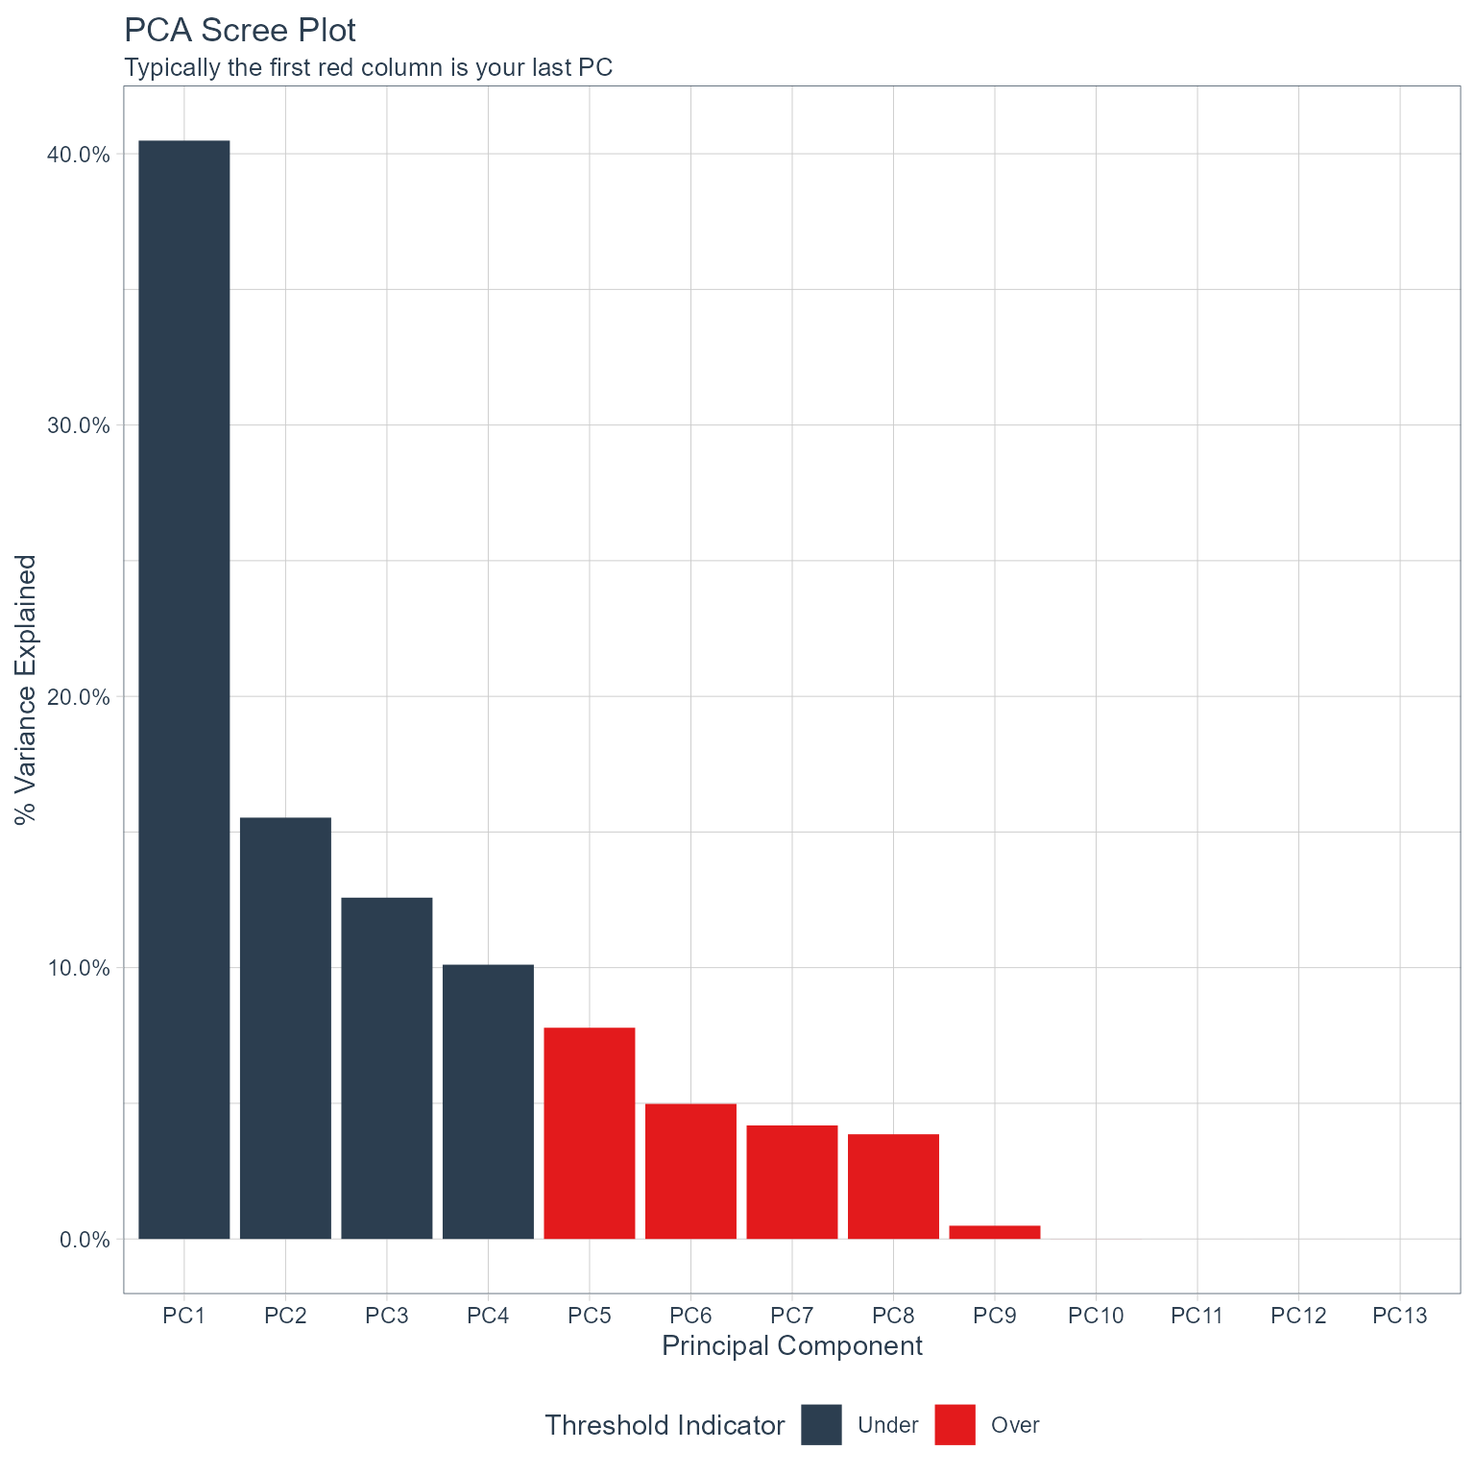
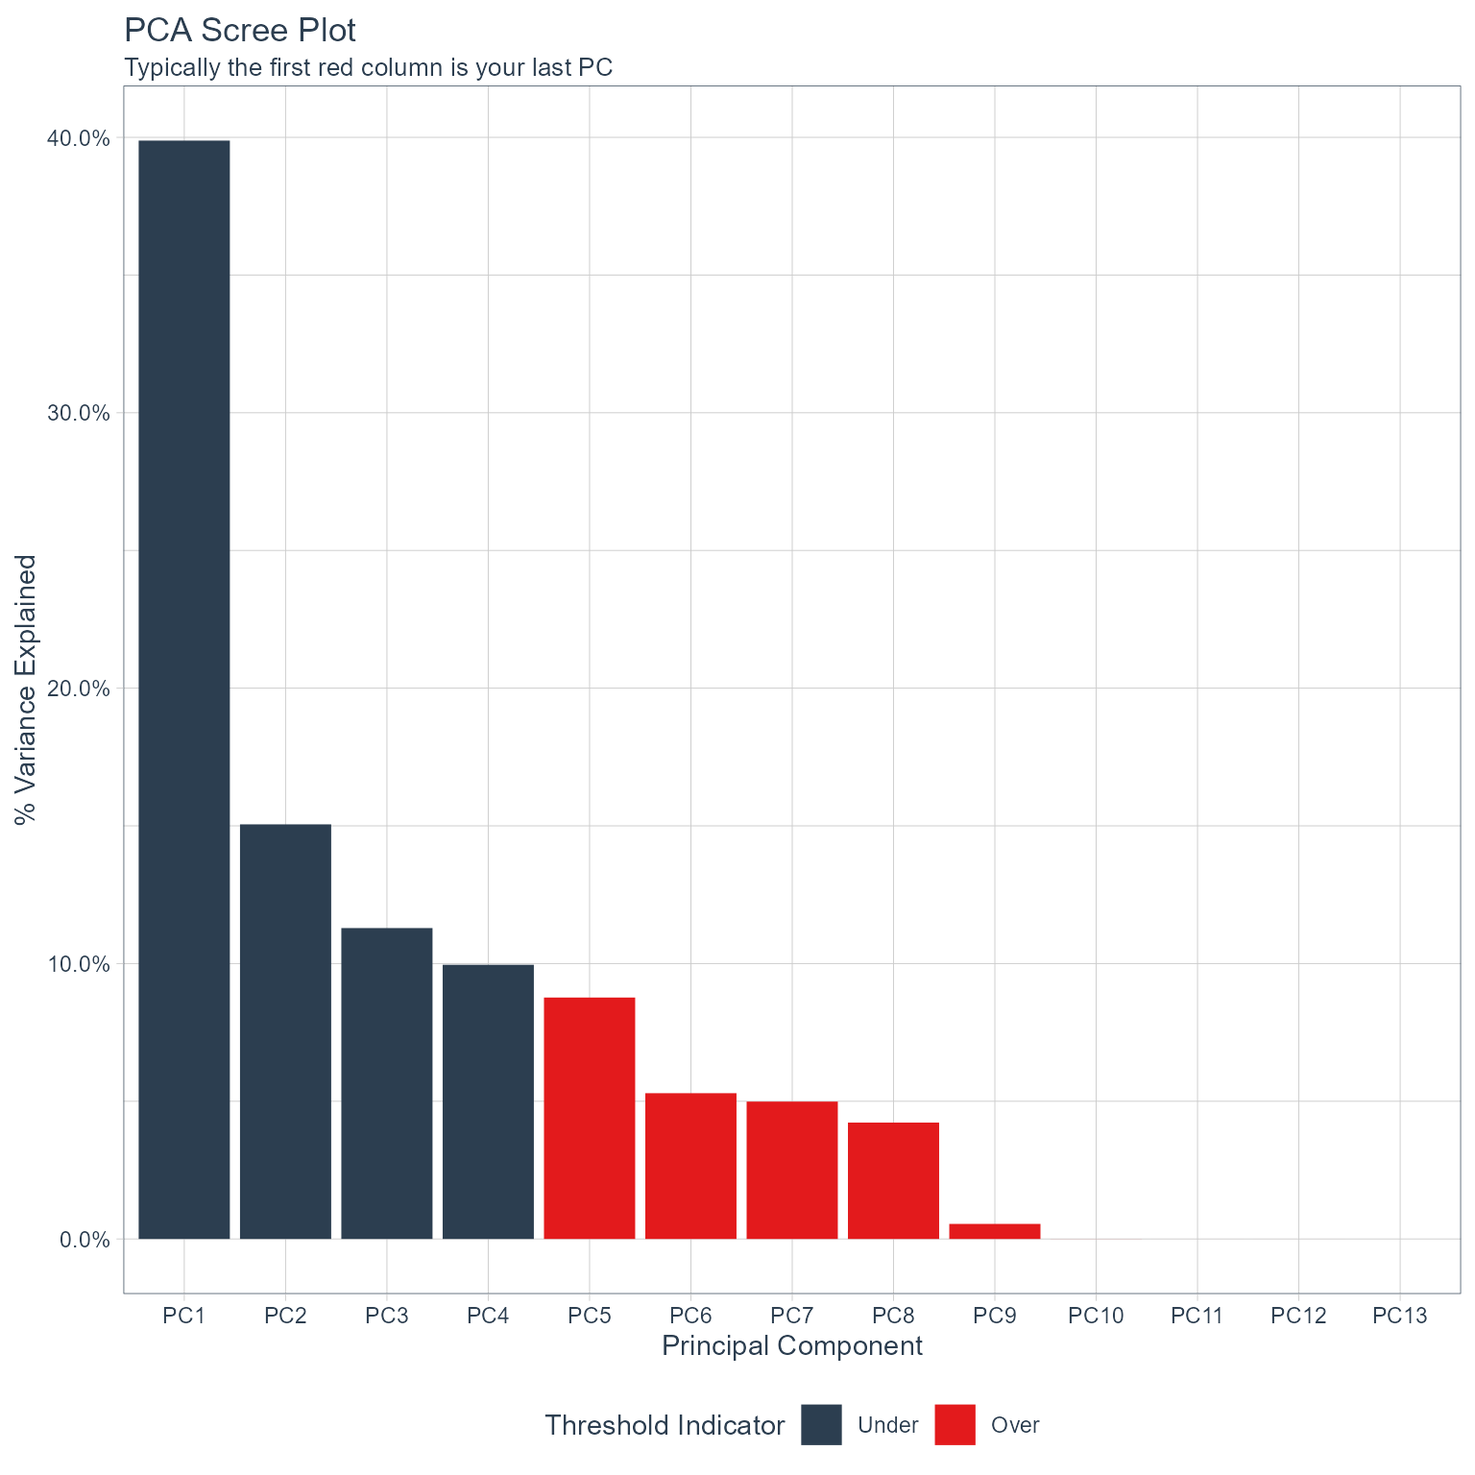
update NEWS and rebuild site

diff --git a/docs/articles/getting-started.html b/docs/articles/getting-started.html
@@ -175,12 +175,12 @@
 <span class="co">#&gt; # A tibble: 6 x 2</span>
 <span class="co">#&gt;   date_col            value</span>
 <span class="co">#&gt;   &lt;dttm&gt;              &lt;int&gt;</span>
-<span class="co">#&gt; 1 2020-05-01 00:00:00   716</span>
-<span class="co">#&gt; 2 2016-09-01 00:00:00  1511</span>
-<span class="co">#&gt; 3 2014-05-01 00:00:00  1835</span>
-<span class="co">#&gt; 4 2019-12-01 00:00:00  1381</span>
-<span class="co">#&gt; 5 2013-08-01 00:00:00  1887</span>
-<span class="co">#&gt; 6 2013-03-01 00:00:00  1796</span></code></pre></div>
+<span class="co">#&gt; 1 2020-10-01 00:00:00  1164</span>
+<span class="co">#&gt; 2 2014-06-01 00:00:00  1753</span>
+<span class="co">#&gt; 3 2018-07-01 00:00:00  1651</span>
+<span class="co">#&gt; 4 2013-01-01 00:00:00  2082</span>
+<span class="co">#&gt; 5 2015-08-01 00:00:00  1609</span>
+<span class="co">#&gt; 6 2014-07-01 00:00:00  1782</span></code></pre></div>
 </div>
 <div id="initial-recipe" class="section level2">
 <h2 class="hasAnchor">
@@ -207,25 +207,25 @@
 <span class="fu"><a href="../reference/get_juiced_data.html">get_juiced_data</a></span><span class="op">(</span><span class="va">rec_obj</span><span class="op">)</span> <span class="op"><a href="../reference/%&gt;%.html">%&gt;%</a></span> <span class="fu"><a href="https://pillar.r-lib.org/reference/glimpse.html">glimpse</a></span><span class="op">(</span><span class="op">)</span>
 <span class="co">#&gt; Rows: 76</span>
 <span class="co">#&gt; Columns: 20</span>
-<span class="co">#&gt; $ date_col           &lt;dttm&gt; 2020-05-01, 2016-09-01, 2014-05-01, 2019-12-01, 20~</span>
-<span class="co">#&gt; $ value              &lt;int&gt; 716, 1511, 1835, 1381, 1887, 1796, 1618, 1241, 1753~</span>
-<span class="co">#&gt; $ date_col_index.num &lt;dbl&gt; 1588291200, 1472688000, 1398902400, 1575158400, 137~</span>
-<span class="co">#&gt; $ date_col_year      &lt;int&gt; 2020, 2016, 2014, 2019, 2013, 2013, 2018, 2020, 201~</span>
-<span class="co">#&gt; $ date_col_half      &lt;int&gt; 1, 2, 1, 2, 2, 1, 1, 1, 2, 2, 2, 1, 2, 1, 1, 1, 2, ~</span>
-<span class="co">#&gt; $ date_col_quarter   &lt;int&gt; 2, 3, 2, 4, 3, 1, 1, 1, 3, 4, 4, 1, 3, 2, 2, 2, 4, ~</span>
-<span class="co">#&gt; $ date_col_month     &lt;int&gt; 5, 9, 5, 12, 8, 3, 3, 3, 9, 11, 11, 2, 8, 4, 6, 5, ~</span>
-<span class="co">#&gt; $ date_col_month.lbl &lt;ord&gt; May, September, May, December, August, March, March~</span>
+<span class="co">#&gt; $ date_col           &lt;dttm&gt; 2020-10-01, 2014-06-01, 2018-07-01, 2013-01-01, 20~</span>
+<span class="co">#&gt; $ value              &lt;int&gt; 1164, 1753, 1651, 2082, 1609, 1782, 1616, 1844, 166~</span>
+<span class="co">#&gt; $ date_col_index.num &lt;dbl&gt; 1601510400, 1401580800, 1530403200, 1356998400, 143~</span>
+<span class="co">#&gt; $ date_col_year      &lt;int&gt; 2020, 2014, 2018, 2013, 2015, 2014, 2018, 2014, 201~</span>
+<span class="co">#&gt; $ date_col_half      &lt;int&gt; 2, 1, 2, 1, 2, 2, 1, 1, 2, 1, 1, 1, 2, 2, 2, 1, 1, ~</span>
+<span class="co">#&gt; $ date_col_quarter   &lt;int&gt; 4, 2, 3, 1, 3, 3, 2, 1, 3, 1, 2, 2, 3, 3, 4, 2, 1, ~</span>
+<span class="co">#&gt; $ date_col_month     &lt;int&gt; 10, 6, 7, 1, 8, 7, 4, 1, 8, 3, 6, 4, 8, 9, 11, 5, 3~</span>
+<span class="co">#&gt; $ date_col_month.lbl &lt;ord&gt; October, June, July, January, August, July, April, ~</span>
 <span class="co">#&gt; $ date_col_day       &lt;int&gt; 1, 1, 1, 1, 1, 1, 1, 1, 1, 1, 1, 1, 1, 1, 1, 1, 1, ~</span>
-<span class="co">#&gt; $ date_col_wday      &lt;int&gt; 6, 5, 5, 1, 5, 6, 5, 1, 1, 4, 3, 6, 3, 4, 6, 2, 6, ~</span>
-<span class="co">#&gt; $ date_col_wday.lbl  &lt;ord&gt; Friday, Thursday, Thursday, Sunday, Thursday, Frida~</span>
+<span class="co">#&gt; $ date_col_wday      &lt;int&gt; 5, 1, 1, 3, 7, 3, 1, 4, 6, 1, 6, 7, 5, 7, 1, 1, 4, ~</span>
+<span class="co">#&gt; $ date_col_wday.lbl  &lt;ord&gt; Thursday, Sunday, Sunday, Tuesday, Saturday, Tuesda~</span>
 <span class="co">#&gt; $ date_col_mday      &lt;int&gt; 1, 1, 1, 1, 1, 1, 1, 1, 1, 1, 1, 1, 1, 1, 1, 1, 1, ~</span>
-<span class="co">#&gt; $ date_col_qday      &lt;int&gt; 31, 63, 31, 62, 32, 60, 60, 61, 63, 32, 32, 32, 32,~</span>
-<span class="co">#&gt; $ date_col_yday      &lt;int&gt; 122, 245, 121, 335, 213, 60, 60, 61, 244, 305, 306,~</span>
-<span class="co">#&gt; $ date_col_mweek     &lt;int&gt; 5, 5, 5, 5, 5, 5, 5, 5, 5, 5, 6, 5, 6, 5, 5, 6, 5, ~</span>
-<span class="co">#&gt; $ date_col_week      &lt;int&gt; 18, 35, 18, 48, 31, 9, 9, 9, 35, 44, 44, 5, 31, 13,~</span>
-<span class="co">#&gt; $ date_col_week2     &lt;int&gt; 0, 1, 0, 0, 1, 1, 1, 1, 1, 0, 0, 1, 1, 1, 0, 0, 0, ~</span>
-<span class="co">#&gt; $ date_col_week3     &lt;int&gt; 0, 2, 0, 0, 1, 0, 0, 0, 2, 2, 2, 2, 1, 1, 1, 0, 0, ~</span>
-<span class="co">#&gt; $ date_col_week4     &lt;int&gt; 2, 3, 2, 0, 3, 1, 1, 1, 3, 0, 0, 1, 3, 1, 2, 2, 0, ~</span>
+<span class="co">#&gt; $ date_col_qday      &lt;int&gt; 1, 62, 1, 1, 32, 1, 1, 1, 32, 60, 62, 1, 32, 63, 32~</span>
+<span class="co">#&gt; $ date_col_yday      &lt;int&gt; 275, 152, 182, 1, 213, 182, 91, 1, 213, 60, 152, 91~</span>
+<span class="co">#&gt; $ date_col_mweek     &lt;int&gt; 5, 5, 5, 6, 5, 5, 5, 5, 5, 4, 5, 5, 5, 5, 5, 5, 5, ~</span>
+<span class="co">#&gt; $ date_col_week      &lt;int&gt; 40, 22, 26, 1, 31, 26, 13, 1, 31, 9, 22, 13, 31, 35~</span>
+<span class="co">#&gt; $ date_col_week2     &lt;int&gt; 0, 0, 0, 1, 1, 0, 1, 1, 1, 1, 0, 1, 1, 1, 0, 0, 1, ~</span>
+<span class="co">#&gt; $ date_col_week3     &lt;int&gt; 1, 1, 2, 1, 1, 2, 1, 1, 1, 0, 1, 1, 1, 2, 2, 0, 0, ~</span>
+<span class="co">#&gt; $ date_col_week4     &lt;int&gt; 0, 2, 2, 1, 3, 2, 1, 1, 3, 1, 2, 1, 3, 3, 0, 2, 1, ~</span>
 <span class="co">#&gt; $ date_col_mday7     &lt;int&gt; 1, 1, 1, 1, 1, 1, 1, 1, 1, 1, 1, 1, 1, 1, 1, 1, 1, ~</span></code></pre></div>
 <p>Now that we have out initial recipe we can use the <code><a href="../reference/pca_your_recipe.html">pca_your_recipe()</a></code> function.</p>
 <div class="sourceCode" id="cb6"><pre class="downlit sourceCode r">
@@ -289,16 +289,16 @@
 <span class="co">#&gt; # A tibble: 169 x 4</span>
 <span class="co">#&gt;    terms                 value component id       </span>
 <span class="co">#&gt;    &lt;chr&gt;                 &lt;dbl&gt; &lt;chr&gt;     &lt;chr&gt;    </span>
-<span class="co">#&gt;  1 date_col_index.num -0.0318  PC1       pca_nMYre</span>
-<span class="co">#&gt;  2 date_col_year       0.0237  PC1       pca_nMYre</span>
-<span class="co">#&gt;  3 date_col_half      -0.385   PC1       pca_nMYre</span>
-<span class="co">#&gt;  4 date_col_quarter   -0.429   PC1       pca_nMYre</span>
-<span class="co">#&gt;  5 date_col_month     -0.432   PC1       pca_nMYre</span>
-<span class="co">#&gt;  6 date_col_wday       0.00243 PC1       pca_nMYre</span>
-<span class="co">#&gt;  7 date_col_qday      -0.0609  PC1       pca_nMYre</span>
-<span class="co">#&gt;  8 date_col_yday      -0.432   PC1       pca_nMYre</span>
-<span class="co">#&gt;  9 date_col_mweek      0.0166  PC1       pca_nMYre</span>
-<span class="co">#&gt; 10 date_col_week      -0.432   PC1       pca_nMYre</span>
+<span class="co">#&gt;  1 date_col_index.num -0.114   PC1       pca_3tZ6a</span>
+<span class="co">#&gt;  2 date_col_year      -0.0630  PC1       pca_3tZ6a</span>
+<span class="co">#&gt;  3 date_col_half      -0.387   PC1       pca_3tZ6a</span>
+<span class="co">#&gt;  4 date_col_quarter   -0.432   PC1       pca_3tZ6a</span>
+<span class="co">#&gt;  5 date_col_month     -0.433   PC1       pca_3tZ6a</span>
+<span class="co">#&gt;  6 date_col_wday      -0.00512 PC1       pca_3tZ6a</span>
+<span class="co">#&gt;  7 date_col_qday      -0.0138  PC1       pca_3tZ6a</span>
+<span class="co">#&gt;  8 date_col_yday      -0.433   PC1       pca_3tZ6a</span>
+<span class="co">#&gt;  9 date_col_mweek     -0.0169  PC1       pca_3tZ6a</span>
+<span class="co">#&gt; 10 date_col_week      -0.433   PC1       pca_3tZ6a</span>
 <span class="co">#&gt; # ... with 159 more rows</span></code></pre></div>
 </div>
 <div id="variable-variance" class="section level2">
@@ -309,16 +309,16 @@
 <span class="co">#&gt; # A tibble: 52 x 4</span>
 <span class="co">#&gt;    terms       value component id       </span>
 <span class="co">#&gt;    &lt;chr&gt;       &lt;dbl&gt;     &lt;int&gt; &lt;chr&gt;    </span>
-<span class="co">#&gt;  1 variance 5.26             1 pca_nMYre</span>
-<span class="co">#&gt;  2 variance 2.02             2 pca_nMYre</span>
-<span class="co">#&gt;  3 variance 1.64             3 pca_nMYre</span>
-<span class="co">#&gt;  4 variance 1.31             4 pca_nMYre</span>
-<span class="co">#&gt;  5 variance 1.01             5 pca_nMYre</span>
-<span class="co">#&gt;  6 variance 0.647            6 pca_nMYre</span>
-<span class="co">#&gt;  7 variance 0.544            7 pca_nMYre</span>
-<span class="co">#&gt;  8 variance 0.502            8 pca_nMYre</span>
-<span class="co">#&gt;  9 variance 0.0635           9 pca_nMYre</span>
-<span class="co">#&gt; 10 variance 0.000244        10 pca_nMYre</span>
+<span class="co">#&gt;  1 variance 5.18             1 pca_3tZ6a</span>
+<span class="co">#&gt;  2 variance 1.96             2 pca_3tZ6a</span>
+<span class="co">#&gt;  3 variance 1.47             3 pca_3tZ6a</span>
+<span class="co">#&gt;  4 variance 1.29             4 pca_3tZ6a</span>
+<span class="co">#&gt;  5 variance 1.14             5 pca_3tZ6a</span>
+<span class="co">#&gt;  6 variance 0.688            6 pca_3tZ6a</span>
+<span class="co">#&gt;  7 variance 0.648            7 pca_3tZ6a</span>
+<span class="co">#&gt;  8 variance 0.549            8 pca_3tZ6a</span>
+<span class="co">#&gt;  9 variance 0.0710           9 pca_3tZ6a</span>
+<span class="co">#&gt; 10 variance 0.000287        10 pca_3tZ6a</span>
 <span class="co">#&gt; # ... with 42 more rows</span></code></pre></div>
 </div>
 <div id="pca-estimates" class="section level2">
@@ -352,28 +352,28 @@
 <code class="sourceCode R"><span class="va">pca_list</span><span class="op">$</span><span class="va">pca_juiced_estimates</span> <span class="op"><a href="../reference/%&gt;%.html">%&gt;%</a></span> <span class="fu"><a href="https://pillar.r-lib.org/reference/glimpse.html">glimpse</a></span><span class="op">(</span><span class="op">)</span>
 <span class="co">#&gt; Rows: 76</span>
 <span class="co">#&gt; Columns: 9</span>
-<span class="co">#&gt; $ date_col           &lt;dttm&gt; 2020-05-01, 2016-09-01, 2014-05-01, 2019-12-01, 20~</span>
-<span class="co">#&gt; $ value              &lt;dbl&gt; -3.4112548, -0.2249701, 1.0735913, -0.7459977, 1.28~</span>
-<span class="co">#&gt; $ date_col_month.lbl &lt;ord&gt; May, September, May, December, August, March, March~</span>
-<span class="co">#&gt; $ date_col_wday.lbl  &lt;ord&gt; Friday, Thursday, Thursday, Sunday, Thursday, Frida~</span>
-<span class="co">#&gt; $ PC1                &lt;dbl&gt; 0.8955468, -1.1946907, 0.9191694, -3.4515166, -0.68~</span>
-<span class="co">#&gt; $ PC2                &lt;dbl&gt; -2.26356090, -0.22742992, 1.38924916, -1.39753015, ~</span>
-<span class="co">#&gt; $ PC3                &lt;dbl&gt; -0.89315026, -0.77239941, -1.23616508, -0.47527629,~</span>
-<span class="co">#&gt; $ PC4                &lt;dbl&gt; 0.72619029, -2.23104044, 0.39612645, 2.42746967, -1~</span>
-<span class="co">#&gt; $ PC5                &lt;dbl&gt; 0.15885398, -1.46297419, 0.03178039, -0.63892718, -~</span>
+<span class="co">#&gt; $ date_col           &lt;dttm&gt; 2020-10-01, 2014-06-01, 2018-07-01, 2013-01-01, 20~</span>
+<span class="co">#&gt; $ value              &lt;dbl&gt; -1.36203824, 0.72949480, 0.36729384, 1.89777048, 0.~</span>
+<span class="co">#&gt; $ date_col_month.lbl &lt;ord&gt; October, June, July, January, August, July, April, ~</span>
+<span class="co">#&gt; $ date_col_wday.lbl  &lt;ord&gt; Thursday, Sunday, Sunday, Tuesday, Saturday, Tuesda~</span>
+<span class="co">#&gt; $ PC1                &lt;dbl&gt; -3.0654433, 0.6733205, -1.2837347, 3.5388803, -0.78~</span>
+<span class="co">#&gt; $ PC2                &lt;dbl&gt; -2.06719169, 1.25406635, -0.82265414, 1.95594001, 1~</span>
+<span class="co">#&gt; $ PC3                &lt;dbl&gt; -0.53079049, -0.25351705, 1.47467939, 1.48552917, -~</span>
+<span class="co">#&gt; $ PC4                &lt;dbl&gt; -1.51826727, 0.64574264, -0.85073171, -1.09794757, ~</span>
+<span class="co">#&gt; $ PC5                &lt;dbl&gt; -0.14417390, 1.33019359, -0.54169487, 0.56226109, -~</span>
 
 <span class="va">pca_list</span><span class="op">$</span><span class="va">pca_baked_data</span> <span class="op"><a href="../reference/%&gt;%.html">%&gt;%</a></span> <span class="fu"><a href="https://pillar.r-lib.org/reference/glimpse.html">glimpse</a></span><span class="op">(</span><span class="op">)</span>
 <span class="co">#&gt; Rows: 95</span>
 <span class="co">#&gt; Columns: 9</span>
 <span class="co">#&gt; $ date_col           &lt;dttm&gt; 2013-01-01, 2013-02-01, 2013-03-01, 2013-04-01, 20~</span>
-<span class="co">#&gt; $ value              &lt;dbl&gt; 2.0635439, 0.6086743, 0.9172830, 1.1938284, 1.84711~</span>
+<span class="co">#&gt; $ value              &lt;dbl&gt; 1.8977705, 0.6087611, 0.8821874, 1.1272057, 1.70601~</span>
 <span class="co">#&gt; $ date_col_month.lbl &lt;ord&gt; January, February, March, April, May, June, July, A~</span>
 <span class="co">#&gt; $ date_col_wday.lbl  &lt;ord&gt; Tuesday, Friday, Friday, Monday, Wednesday, Saturda~</span>
-<span class="co">#&gt; $ PC1                &lt;dbl&gt; 3.2579559, 2.7259998, 2.4397586, 1.8241476, 0.92142~</span>
-<span class="co">#&gt; $ PC2                &lt;dbl&gt; 2.5731192, 1.9437880, 1.9435737, 2.5741896, 2.05720~</span>
-<span class="co">#&gt; $ PC3                &lt;dbl&gt; 1.58239511, -0.57032332, -2.22695531, 1.74150708, -~</span>
-<span class="co">#&gt; $ PC4                &lt;dbl&gt; 0.22765061, -1.36630072, 0.26738124, 0.42806496, 0.~</span>
-<span class="co">#&gt; $ PC5                &lt;dbl&gt; -0.13384632, 1.09599818, -0.08204904, -0.47731142, ~</span></code></pre></div>
+<span class="co">#&gt; $ PC1                &lt;dbl&gt; 3.5388803, 3.0283140, 2.9102530, 1.9954410, 1.28537~</span>
+<span class="co">#&gt; $ PC2                &lt;dbl&gt; 1.9559400, 1.8297701, 1.7052022, 2.0816207, 1.74592~</span>
+<span class="co">#&gt; $ PC3                &lt;dbl&gt; 1.48552917, -0.53660942, -1.91003611, 1.63518591, -~</span>
+<span class="co">#&gt; $ PC4                &lt;dbl&gt; -1.097947570, -0.609283651, 0.675466683, -0.9073865~</span>
+<span class="co">#&gt; $ PC5                &lt;dbl&gt; 0.56226109, -1.26831222, 0.45962685, 0.91390132, 0.~</span></code></pre></div>
 </div>
 <div id="roatation-data" class="section level2">
 <h2 class="hasAnchor">
@@ -382,19 +382,19 @@
 <code class="sourceCode R"><span class="va">pca_list</span><span class="op">$</span><span class="va">pca_rotation_df</span> <span class="op"><a href="../reference/%&gt;%.html">%&gt;%</a></span> <span class="fu"><a href="https://pillar.r-lib.org/reference/glimpse.html">glimpse</a></span><span class="op">(</span><span class="op">)</span>
 <span class="co">#&gt; Rows: 13</span>
 <span class="co">#&gt; Columns: 13</span>
-<span class="co">#&gt; $ PC1  &lt;dbl&gt; -0.031777230, 0.023739134, -0.384926903, -0.428998733, -0.4323029~</span>
-<span class="co">#&gt; $ PC2  &lt;dbl&gt; -0.690022313, -0.690018402, -0.007688917, 0.013469118, -0.0025865~</span>
-<span class="co">#&gt; $ PC3  &lt;dbl&gt; 0.10390986, 0.11108796, 0.11451033, 0.08035989, -0.05662913, -0.4~</span>
-<span class="co">#&gt; $ PC4  &lt;dbl&gt; 0.107478949, 0.107998634, -0.240936955, -0.039285022, -0.00252723~</span>
-<span class="co">#&gt; $ PC5  &lt;dbl&gt; -0.012139654, -0.001990503, -0.122659068, 0.016111798, -0.0800366~</span>
-<span class="co">#&gt; $ PC6  &lt;dbl&gt; 0.0106317666, 0.0115748997, 0.2469668460, 0.1009279846, -0.005284~</span>
-<span class="co">#&gt; $ PC7  &lt;dbl&gt; -0.01830824, -0.01289531, -0.14865344, 0.04498067, -0.03821656, 0~</span>
-<span class="co">#&gt; $ PC8  &lt;dbl&gt; -0.01880162, -0.01396591, -0.16762547, -0.10674409, -0.03709050, ~</span>
-<span class="co">#&gt; $ PC9  &lt;dbl&gt; -0.01679727, 0.01214077, 0.80891598, -0.27409412, -0.22276293, 0.~</span>
-<span class="co">#&gt; $ PC10 &lt;dbl&gt; 0.0136241007, -0.0112379283, 0.0041305355, 0.2972778000, 0.373063~</span>
-<span class="co">#&gt; $ PC11 &lt;dbl&gt; 0.0220143296, -0.0226858781, 0.0017914901, 0.1316063668, -0.70638~</span>
-<span class="co">#&gt; $ PC12 &lt;dbl&gt; -1.130190e-03, 6.972679e-04, -3.093956e-03, -7.759093e-01, 3.3585~</span>
-<span class="co">#&gt; $ PC13 &lt;dbl&gt; -7.061216e-01, 7.057044e-01, 5.680374e-05, 3.250927e-02, 6.476206~</span></code></pre></div>
+<span class="co">#&gt; $ PC1  &lt;dbl&gt; -0.113763135, -0.062967228, -0.387090532, -0.431738354, -0.432898~</span>
+<span class="co">#&gt; $ PC2  &lt;dbl&gt; -0.686313634, -0.703221048, 0.098073692, 0.055470364, 0.053647762~</span>
+<span class="co">#&gt; $ PC3  &lt;dbl&gt; 0.06995210, 0.07671027, 0.12697391, 0.03078856, -0.04790676, -0.5~</span>
+<span class="co">#&gt; $ PC4  &lt;dbl&gt; 0.038934044, 0.027833407, 0.094346434, -0.067356975, 0.097166981,~</span>
+<span class="co">#&gt; $ PC5  &lt;dbl&gt; -0.02033003, -0.02623067, -0.22490888, -0.02452553, 0.04777822, -~</span>
+<span class="co">#&gt; $ PC6  &lt;dbl&gt; 0.014706795, 0.014301364, 0.127535759, 0.124724770, 0.008066546, ~</span>
+<span class="co">#&gt; $ PC7  &lt;dbl&gt; -0.012058997, -0.009724106, -0.277061282, -0.076857335, -0.020954~</span>
+<span class="co">#&gt; $ PC8  &lt;dbl&gt; -0.04718045, -0.04234569, -0.07699691, 0.01371493, -0.04181082, -~</span>
+<span class="co">#&gt; $ PC9  &lt;dbl&gt; 0.003344591, -0.022751369, -0.816056005, 0.264394989, 0.213605273~</span>
+<span class="co">#&gt; $ PC10 &lt;dbl&gt; 0.0124579165, -0.0107443837, 0.0040258482, 0.2989485416, 0.387224~</span>
+<span class="co">#&gt; $ PC11 &lt;dbl&gt; 0.0258399049, -0.0259929906, 0.0019181684, 0.1174823093, -0.68880~</span>
+<span class="co">#&gt; $ PC12 &lt;dbl&gt; -7.103697e-03, 6.355881e-03, -3.268895e-03, -7.799582e-01, 3.5131~</span>
+<span class="co">#&gt; $ PC13 &lt;dbl&gt; -7.111518e-01, 7.005189e-01, 1.380050e-04, 3.708720e-02, -7.34991~</span></code></pre></div>
 </div>
 <div id="variance-and-scree-plot" class="section level2">
 <h2 class="hasAnchor">
@@ -404,10 +404,10 @@
 <span class="co">#&gt; Rows: 13</span>
 <span class="co">#&gt; Columns: 6</span>
 <span class="co">#&gt; $ PC              &lt;chr&gt; "PC1", "PC2", "PC3", "PC4", "PC5", "PC6", "PC7", "PC8"~</span>
-<span class="co">#&gt; $ var_explained   &lt;dbl&gt; 4.048374e-01, 1.552977e-01, 1.257959e-01, 1.010967e-01~</span>
-<span class="co">#&gt; $ var_pct_txt     &lt;chr&gt; "40.48%", "15.53%", "12.58%", "10.11%", "7.79%", "4.98~</span>
-<span class="co">#&gt; $ cum_var_pct     &lt;dbl&gt; 0.4048374, 0.5601351, 0.6859310, 0.7870277, 0.8648820,~</span>
-<span class="co">#&gt; $ cum_var_pct_txt &lt;chr&gt; "40.48%", "56.01%", "68.59%", "78.70%", "86.49%", "91.~</span>
+<span class="co">#&gt; $ var_explained   &lt;dbl&gt; 3.988168e-01, 1.505419e-01, 1.128860e-01, 9.955568e-02~</span>
+<span class="co">#&gt; $ var_pct_txt     &lt;chr&gt; "39.88%", "15.05%", "11.29%", "9.96%", "8.77%", "5.29%~</span>
+<span class="co">#&gt; $ cum_var_pct     &lt;dbl&gt; 0.3988168, 0.5493587, 0.6622447, 0.7618003, 0.8494618,~</span>
+<span class="co">#&gt; $ cum_var_pct_txt &lt;chr&gt; "39.88%", "54.94%", "66.22%", "76.18%", "84.95%", "90.~</span>
 <span class="co">#&gt; $ ou_threshold    &lt;fct&gt; Under, Under, Under, Under, Over, Over, Over, Over, Ov~</span></code></pre></div>
 <div class="sourceCode" id="cb14"><pre class="downlit sourceCode r">
 <code class="sourceCode R"><span class="va">pca_list</span><span class="op">$</span><span class="va">pca_variance_scree_plt</span></code></pre></div>

diff --git a/docs/news/index.html b/docs/news/index.html
@@ -154,7 +154,8 @@
 </li>
 <li>Fix <a href='https://github.com/spsanderson/healthyR.ai/issues/63'>#63</a> - Add internal function <code><a href="../reference/hai_data_impute.html">hai_data_impute()</a></code>
 </li>
-<li>Fix <a href='https://github.com/spsanderson/healthyR.ai/issues/58'>#58</a> - Add internal function <code><a href="../reference/hai_step_trig.html">hai_step_trig()</a></code>, Add <code>step_hai_hyperblic()</code> and associated recipes functions prep. bake. and print.</li>
+<li>Fix <a href='https://github.com/spsanderson/healthyR.ai/issues/58'>#58</a> - Add internal function <code><a href="../reference/hai_step_trig.html">hai_step_trig()</a></code>, <code>step_hai_hyperblic()</code>
+</li>
 <li>Fix <a href='https://github.com/spsanderson/healthyR.ai/issues/68'>#68</a> - Add <code><a href="../reference/hai_hyperbolic_vec.html">hai_hyperbolic_vec()</a></code> function.</li>
 <li>Fix <a href='https://github.com/spsanderson/healthyR.ai/issues/70'>#70</a> - Add <code><a href="../reference/hai_hyperbolic_augment.html">hai_hyperbolic_augment()</a></code> function.</li>
 <li>Fix <a href='https://github.com/spsanderson/healthyR.ai/issues/75'>#75</a> - Add <code><a href="../reference/hai_fourier_vec.html">hai_fourier_vec()</a></code>,<code><a href="../reference/hai_fourier_augment.html">hai_fourier_augment()</a></code>,<code><a href="../reference/step_hai_fourier.html">step_hai_fourier()</a></code>
